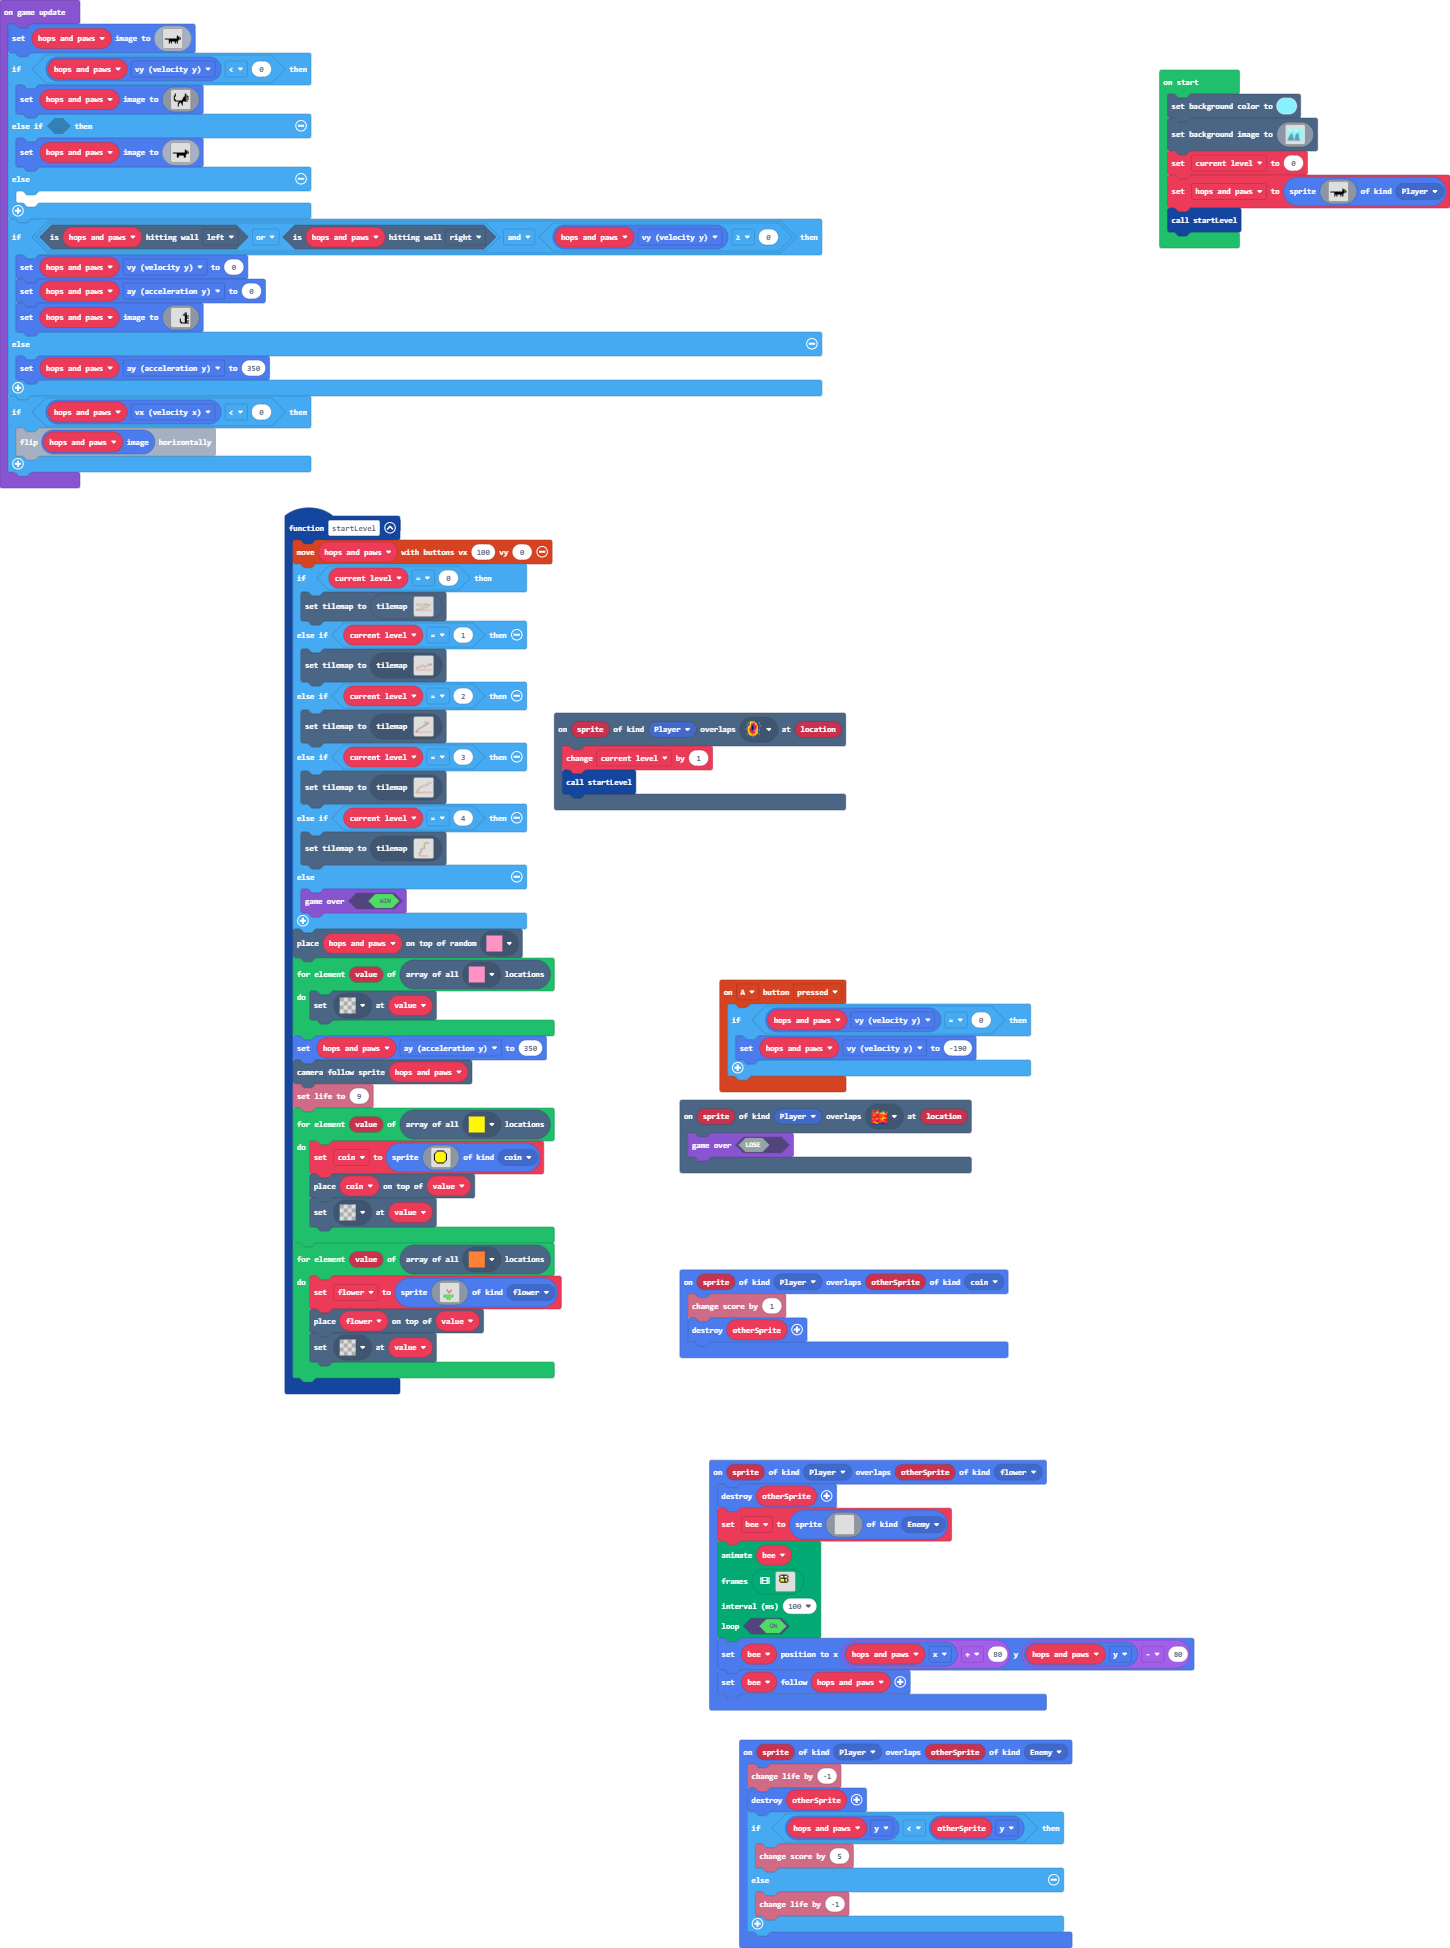
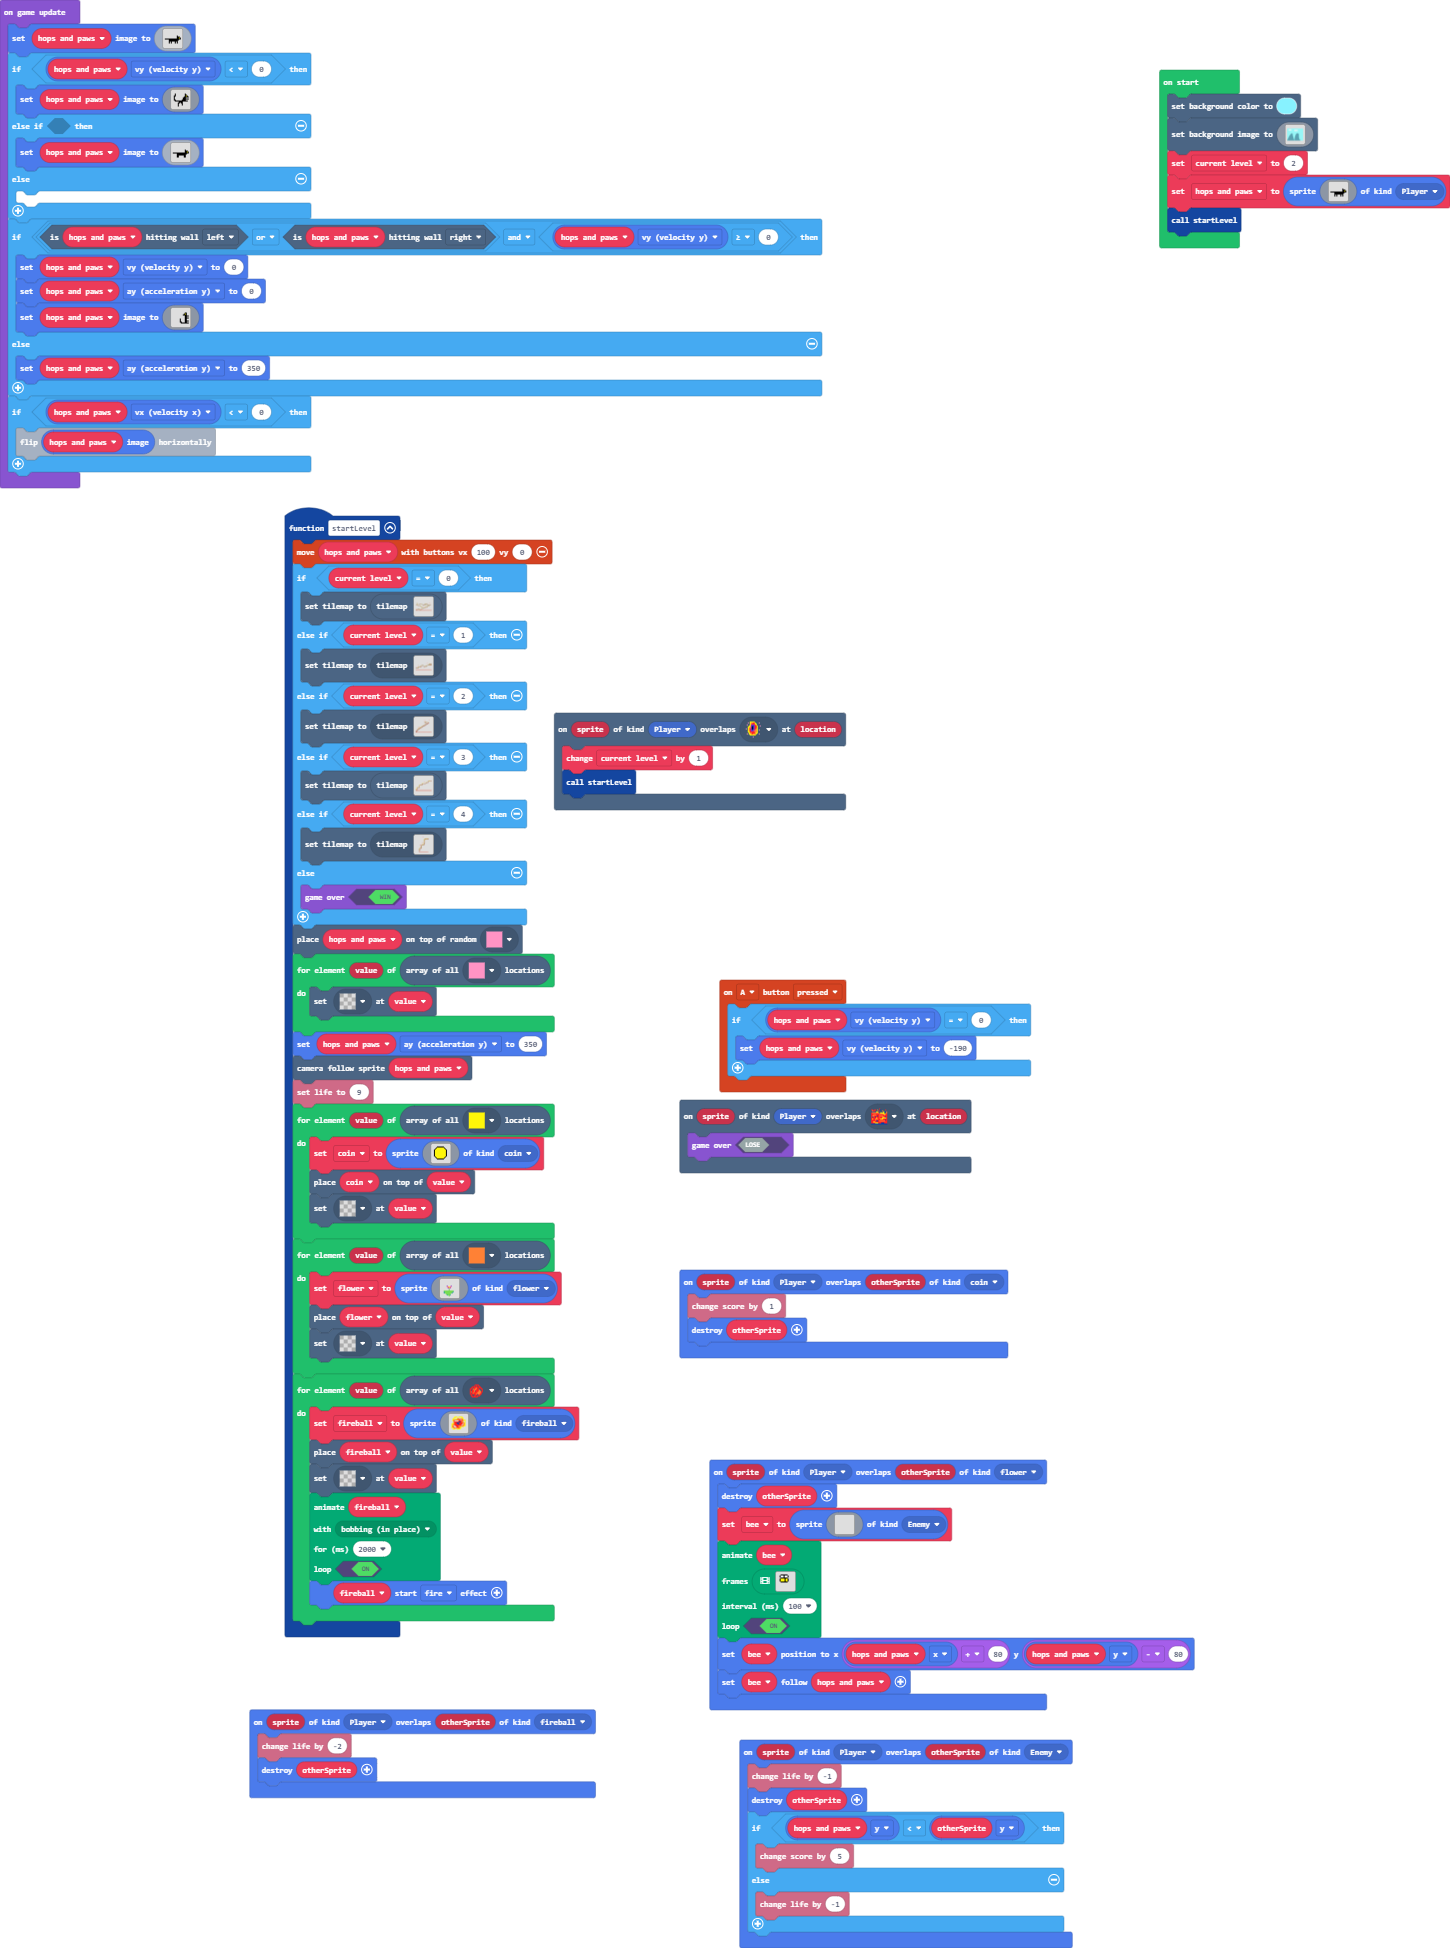
Update main.blocks, main.ts, tilemap.g.jres, tilemap.g.ts

Changed region(s): [[0.1552, 0.4004, 0.4345, 0.924]]

diff --git a/tilemap.g.ts b/tilemap.g.ts
@@ -187,44 +187,6 @@ namespace myTiles {
 .............................................
 .............................................
 `, [myTiles.transparency16,myTiles.tile2,myTiles.tile3,myTiles.tile4,myTiles.tile5,myTiles.tile6,myTiles.tile7,myTiles.tile11], TileScale.Sixteen);
-            case "level7":
[1 lines of base64/hex data omitted]
-.............................................
-.............................................
-.............................................
-.............................................
-.............................................
-.............................................
-.........................222.222.............
-.........................222.222..222........
-..................................222........
-.............................................
-..............................2222...........
-..............................2222...........
-...........................222...............
-...........................222...............
-........................222..................
-........................222..................
-....................2222.....................
-....................2222.....................
-.................222.........................
-.................222.........................
-..............222............................
-..............222............................
-...........222...............................
-...........222...............................
-........222..................................
-........222..................................
-.....222.....................................
-.....222.....................................
-...22........................................
-...22........................................
-...22........................................
-222..........................................
-222..........................................
-222..........................................
-.............................................
-`, [myTiles.transparency16,myTiles.tile3,myTiles.tile4,myTiles.tile5,myTiles.tile7,myTiles.tile8,myTiles.tile9,myTiles.tile10,myTiles.tile11], TileScale.Sixteen);
             case "level8":
[1 lines of base64/hex data omitted]
 .............................................
@@ -301,6 +263,63 @@ namespace myTiles {
 .........................
 .........................
 `, [myTiles.transparency16,myTiles.tile8,myTiles.tile9,myTiles.tile10,myTiles.tile3,myTiles.tile4,myTiles.tile5,myTiles.tile7,myTiles.tile11], TileScale.Sixteen);
+            case "level11":
+            case "level11":return tiles.createTilemap(hex`1000100000000000000000000000000000000000000000000000000000000000000000000000000000000000000000000000000000000000000000000000000000000000000000000000000000000000000000000000000000000000000000000000000000000000000000000000000000000000000000000000000000000000000000000000000000000000000000000000000000000000000000000000000000000000000000000000000000000000000000000000000000000000000000000000000000000000000000000000000000000000000000000000000000000000000000000000000000000000000000000000000000000000000000000000000000000000`, img`
+. . . . . . . . . . . . . . . . 
+. . . . . . . . . . . . . . . . 
+. . . . . . . . . . . . . . . . 
+. . . . . . . . . . . . . . . . 
+. . . . . . . . . . . . . . . . 
+. . . . . . . . . . . . . . . . 
+. . . . . . . . . . . . . . . . 
+. . . . . . . . . . . . . . . . 
+. . . . . . . . . . . . . . . . 
+. . . . . . . . . . . . . . . . 
+. . . . . . . . . . . . . . . . 
+. . . . . . . . . . . . . . . . 
+. . . . . . . . . . . . . . . . 
+. . . . . . . . . . . . . . . . 
+. . . . . . . . . . . . . . . . 
+. . . . . . . . . . . . . . . . 
+`, [myTiles.transparency16], TileScale.Sixteen);
+            case "level7":
[1 lines of base64/hex data omitted]
+.............................................
+.............................................
+.............................................
+.............................................
+.............................................
+.............................................
+.........................222.222.............
+.........................222.222..222........
+..................................222........
+.............................................
+..............................2222...........
+..............................2222...........
+...........................222...............
+...........................222...............
+........................222..................
+........................222..................
+....................2222.....................
+....................2222.....................
+.................222.........................
+.................222.........................
+..............222............................
+..............222............................
+...........222...............................
+...........222...............................
+........222..................................
+........222..................................
+.....222.....................................
+.....222.....................................
+...22........................................
+...22........................................
+...22........................................
+222..........................................
+222..........................................
+222..........................................
+.............................................
+`, [myTiles.transparency16,myTiles.tile3,myTiles.tile4,myTiles.tile5,myTiles.tile7,myTiles.tile8,myTiles.tile9,myTiles.tile10,myTiles.tile11], TileScale.Sixteen);
         }
         return null;
     })

diff --git a/main.ts b/main.ts
@@ -1,6 +1,7 @@
 namespace SpriteKind {
     export const coin = SpriteKind.create()
     export const flower = SpriteKind.create()
+    export const fireball = SpriteKind.create()
 }
 scene.onOverlapTile(SpriteKind.Player, assets.tile`myTile1`, function (sprite, location) {
     game.gameOver(false)
@@ -98,6 +99,10 @@ scene.onOverlapTile(SpriteKind.Player, assets.tile`myTile2`, function (sprite, l
     current_level += 1
     startLevel()
 })
+sprites.onOverlap(SpriteKind.Player, SpriteKind.fireball, function (sprite, otherSprite) {
+    info.changeLifeBy(-2)
+    sprites.destroy(otherSprite)
+})
 function startLevel () {
     controller.moveSprite(hops_and_paws, 100, 0)
     if (current_level == 0) {
@@ -164,6 +169,35 @@ function startLevel () {
         tiles.placeOnTile(flower, value)
         tiles.setTileAt(value, assets.tile`transparency16`)
     }
+    for (let value of tiles.getTilesByType(assets.tile`myTile9`)) {
+        fireball = sprites.create(img`
+            . . . . . . . . . . . . . . . . 
+            . . . . 5 5 5 . 5 5 5 5 . . . . 
+            . . . 5 5 . . 5 . . . 5 5 . . . 
+            . . 5 5 . 5 5 2 4 4 4 4 5 . . . 
+            . . 5 4 4 4 4 4 4 2 . 2 4 5 5 . 
+            . . 5 2 . . . . 2 2 2 4 4 . 5 . 
+            . . . 4 2 2 2 2 8 8 2 4 4 . 5 . 
+            . . 5 4 2 2 8 8 2 2 2 2 4 4 5 . 
+            . 5 5 4 2 2 2 8 8 2 2 2 . 4 5 . 
+            . 5 4 4 2 2 2 2 2 2 2 . 4 4 5 . 
+            . 5 4 . . 2 2 2 4 4 4 4 4 5 5 . 
+            . 5 2 4 . . 2 2 4 4 5 . 5 . . . 
+            . 5 . 4 4 4 4 4 2 5 5 . . . . . 
+            . . 5 5 5 . 5 5 5 5 . . . . . . 
+            . . . . . . . . . . . . . . . . 
+            . . . . . . . . . . . . . . . . 
+            `, SpriteKind.fireball)
+        tiles.placeOnTile(fireball, value)
+        tiles.setTileAt(value, assets.tile`transparency16`)
+        animation.runMovementAnimation(
+        fireball,
+        animation.animationPresets(animation.bobbing),
+        2000,
+        true
+        )
+        fireball.startEffect(effects.fire)
+    }
 }
 sprites.onOverlap(SpriteKind.Player, SpriteKind.Enemy, function (sprite, otherSprite) {
     info.changeLifeBy(-1)
@@ -174,6 +208,7 @@ sprites.onOverlap(SpriteKind.Player, SpriteKind.Enemy, function (sprite, otherSp
         info.changeLifeBy(-1)
     }
 })
+let fireball: Sprite = null
 let flower: Sprite = null
 let coin: Sprite = null
 let bee: Sprite = null
@@ -302,7 +337,7 @@ scene.setBackgroundImage(img`
     9666666666666666666666666666666666666666666666666666666666666666666666666666666666666666666666666666666666666666666666666666666666666666699999999999999999999999
     6666666666666666666666666666666666666666666666666666666666666666666666666666666666666666666666666666666666666666666666666666666666666666669999999999999999999999
     `)
-current_level = 0
+current_level = 2
 hops_and_paws = sprites.create(img`
     . . . . . . . . . . . . . . . . 
     . . . . . . . . . . . . . . . . 
